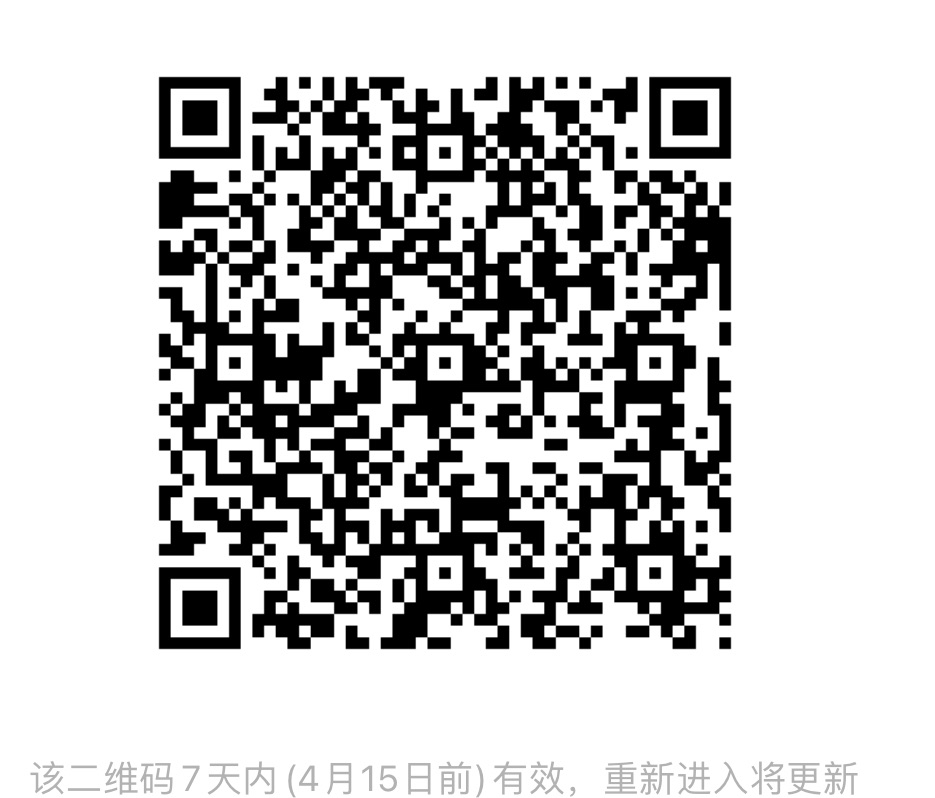
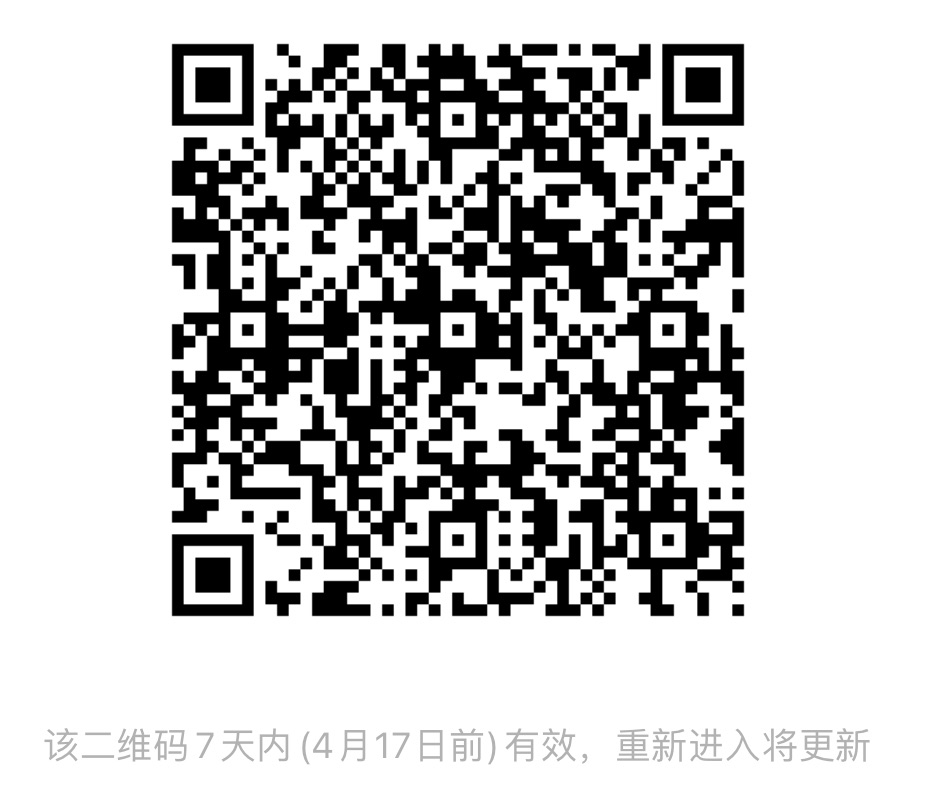
chore:v0.5.4 version and update wechat (#1403)

Changed region(s): [[0.1551, 0.0301, 0.8064, 0.812], [0.031, 0.9023, 0.6203, 1.0], [0.6513, 0.9023, 0.9305, 1.0]]

diff --git a/setup.py b/setup.py
@@ -19,7 +19,7 @@ with open("README.md", mode="r", encoding="utf-8") as fh:
 IS_DEV_MODE = os.getenv("IS_DEV_MODE", "true").lower() == "true"
 # If you modify the version, please modify the version in the following files:
 # dbgpt/_version.py
-DB_GPT_VERSION = os.getenv("DB_GPT_VERSION", "0.5.3")
+DB_GPT_VERSION = os.getenv("DB_GPT_VERSION", "0.5.4")
 
 BUILD_NO_CACHE = os.getenv("BUILD_NO_CACHE", "true").lower() == "true"
 LLAMA_CPP_GPU_ACCELERATION = (

diff --git a/dbgpt/_version.py b/dbgpt/_version.py
@@ -1,1 +1,1 @@
-version = "0.5.3"
+version = "0.5.4"
